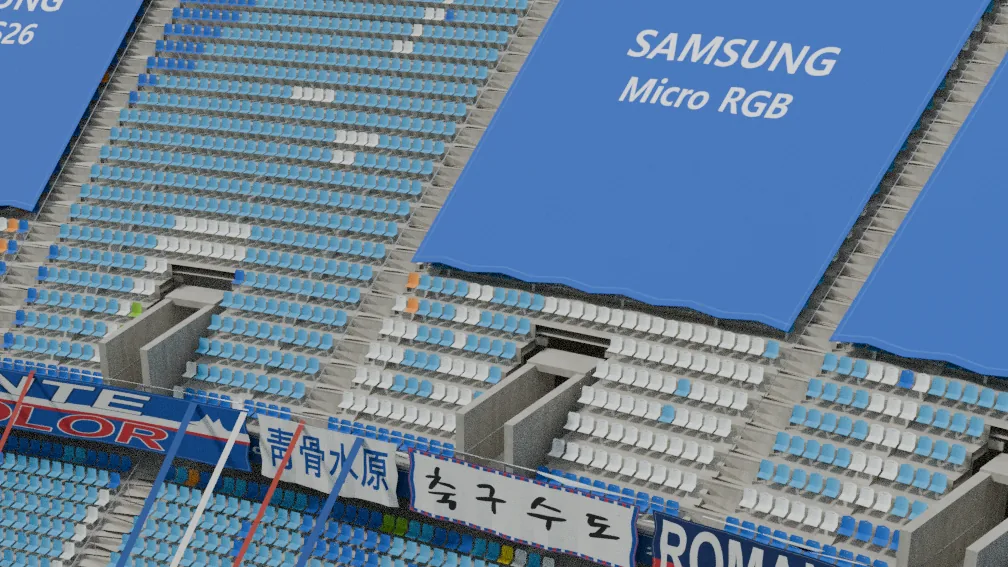
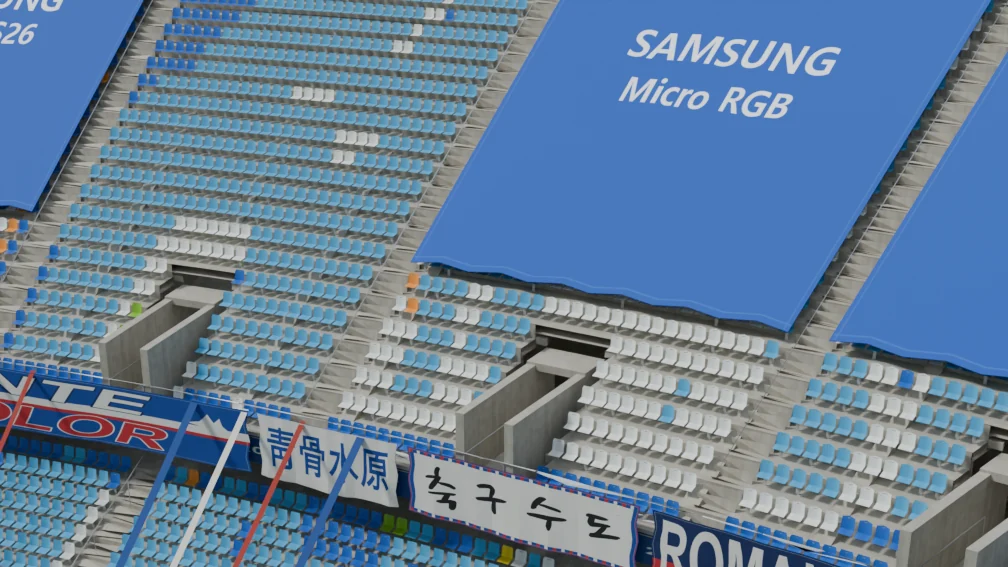
Denoise Big Bird stadium gallery renders

diff --git a/projects/SuwonWorldcupStadium/index.html b/projects/SuwonWorldcupStadium/index.html
@@ -48,7 +48,7 @@ noindex: true
     <p class="mt-2 text-text-body">Views from Blender, the Paradox Mods listing, and the in-game unlock artwork.</p>
     <ul class="mt-5 grid grid-cols-2 gap-x-4 gap-y-5 md:grid-cols-3 md:gap-x-6 md:gap-y-6">
       {% for shot in project.gallery %}
-      {% assign shot_url = image_dir | append: shot.image | append: '.webp' | relative_url %}
+      {% assign shot_url = image_dir | append: shot.image | append: '.webp' | relative_url | append: '?v=2' %}
       <li class="min-w-0">
         <figure>
           <a href="{{ shot_url }}" class="!block overflow-hidden rounded-lg" aria-label="Open full-size image: {{ shot.title | escape }}">
